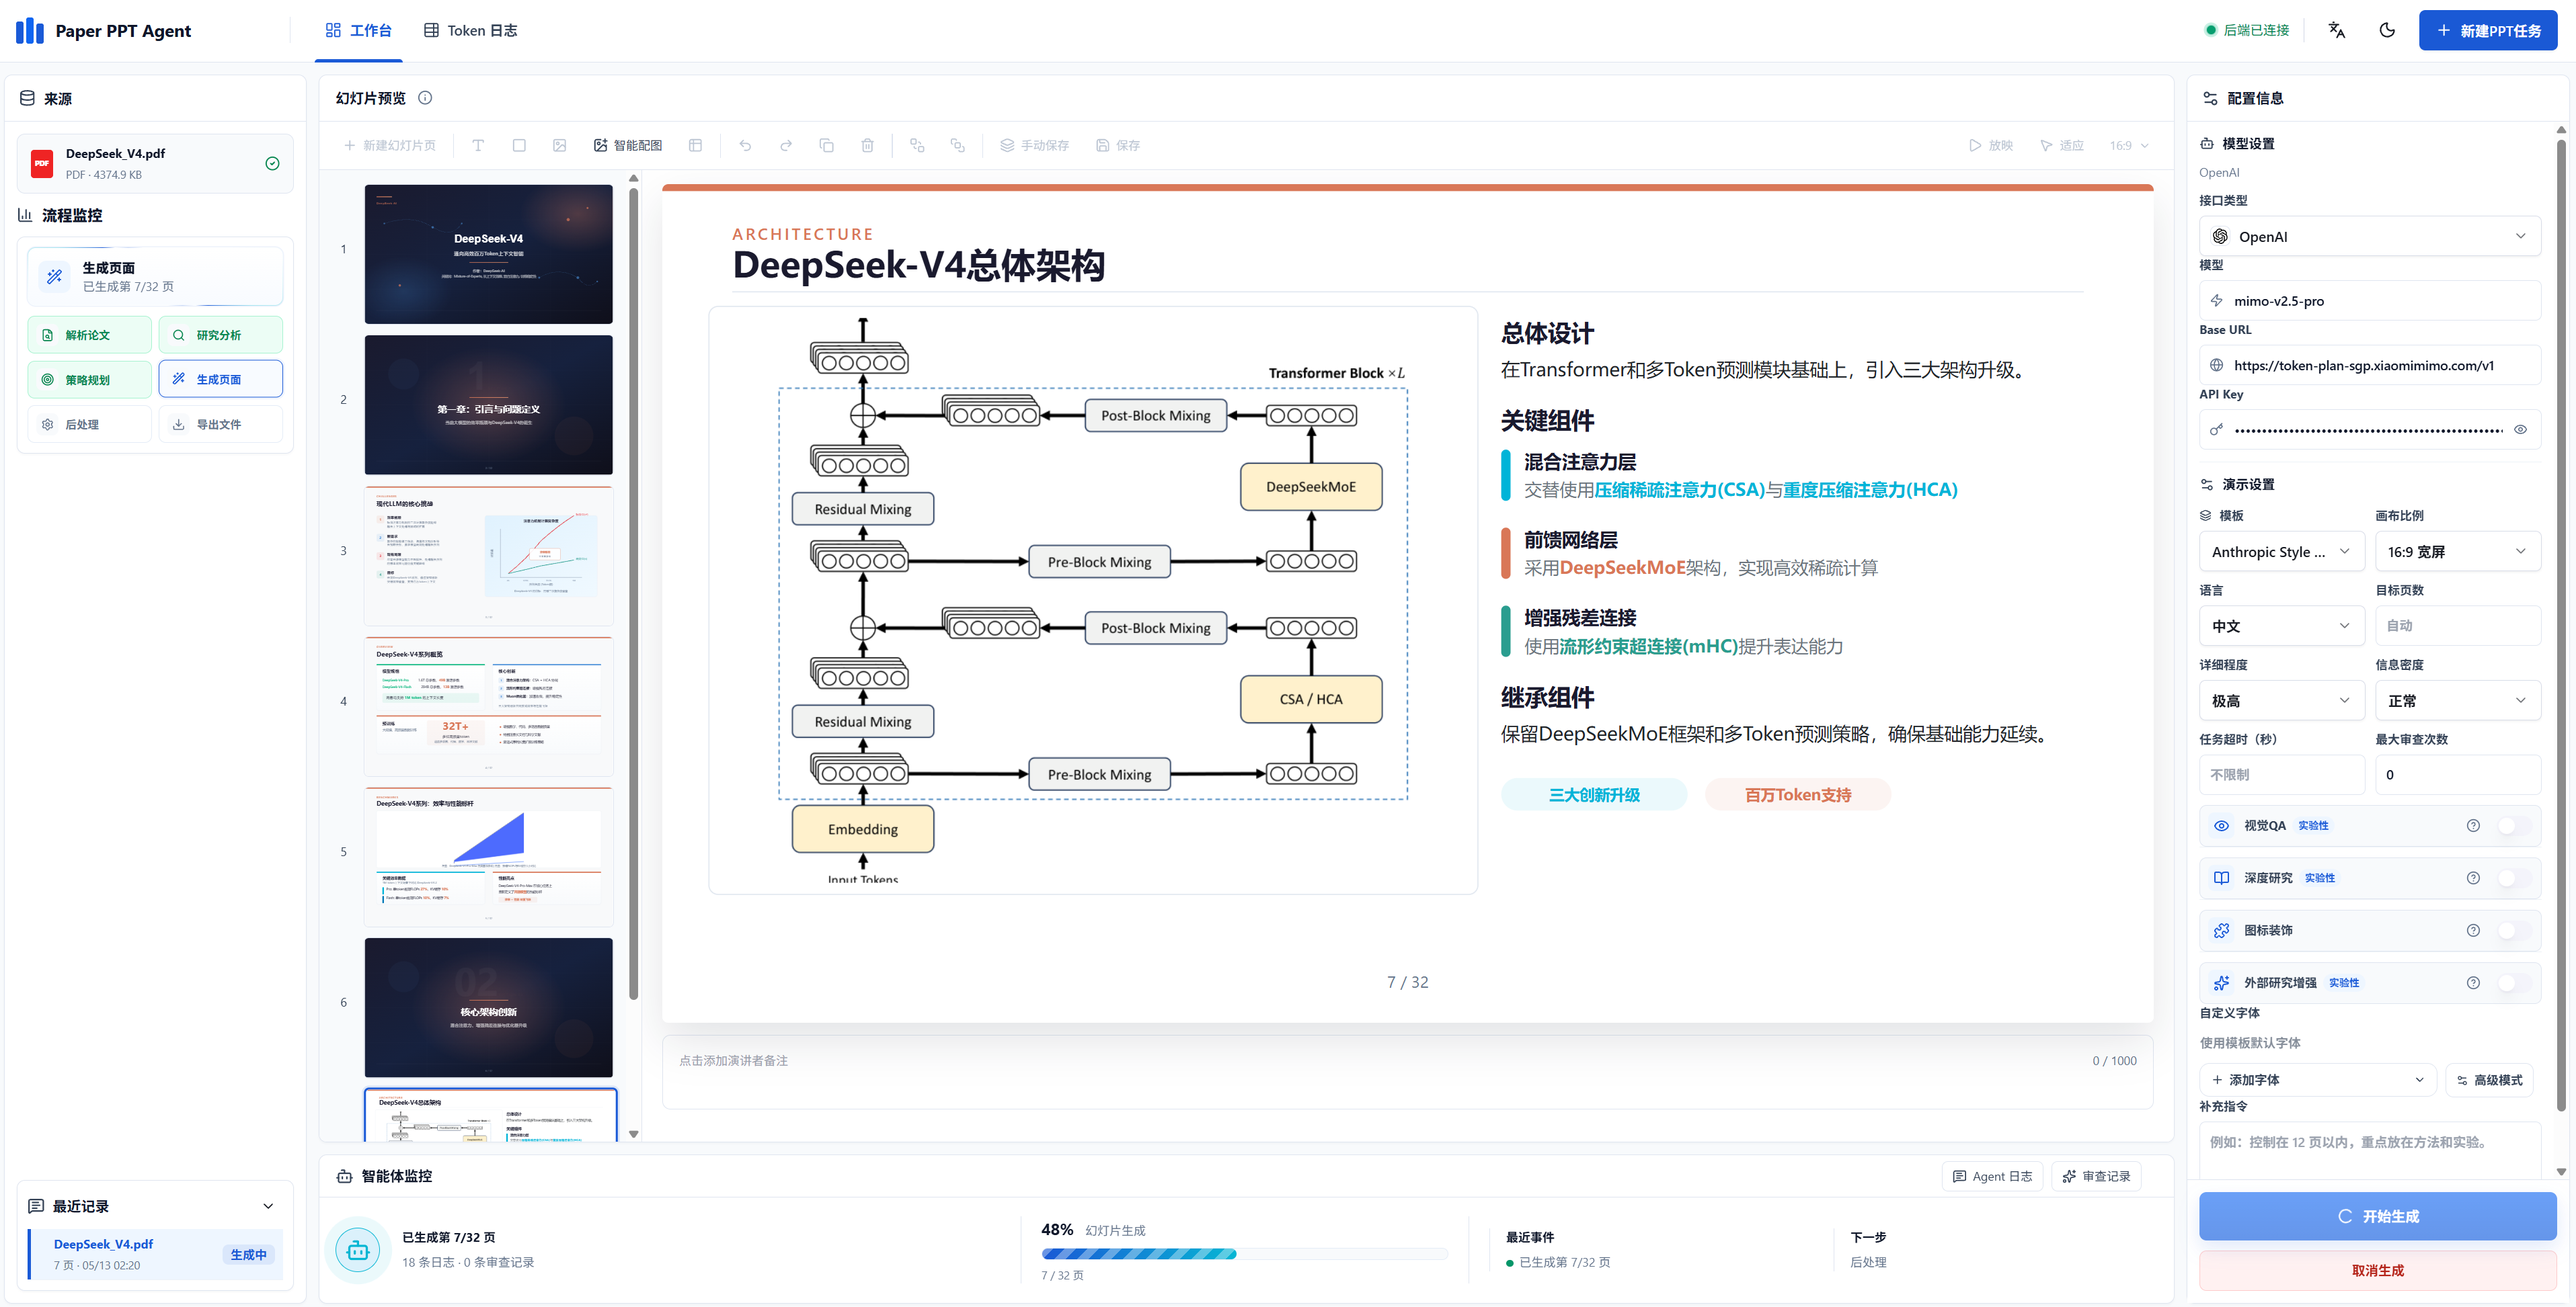
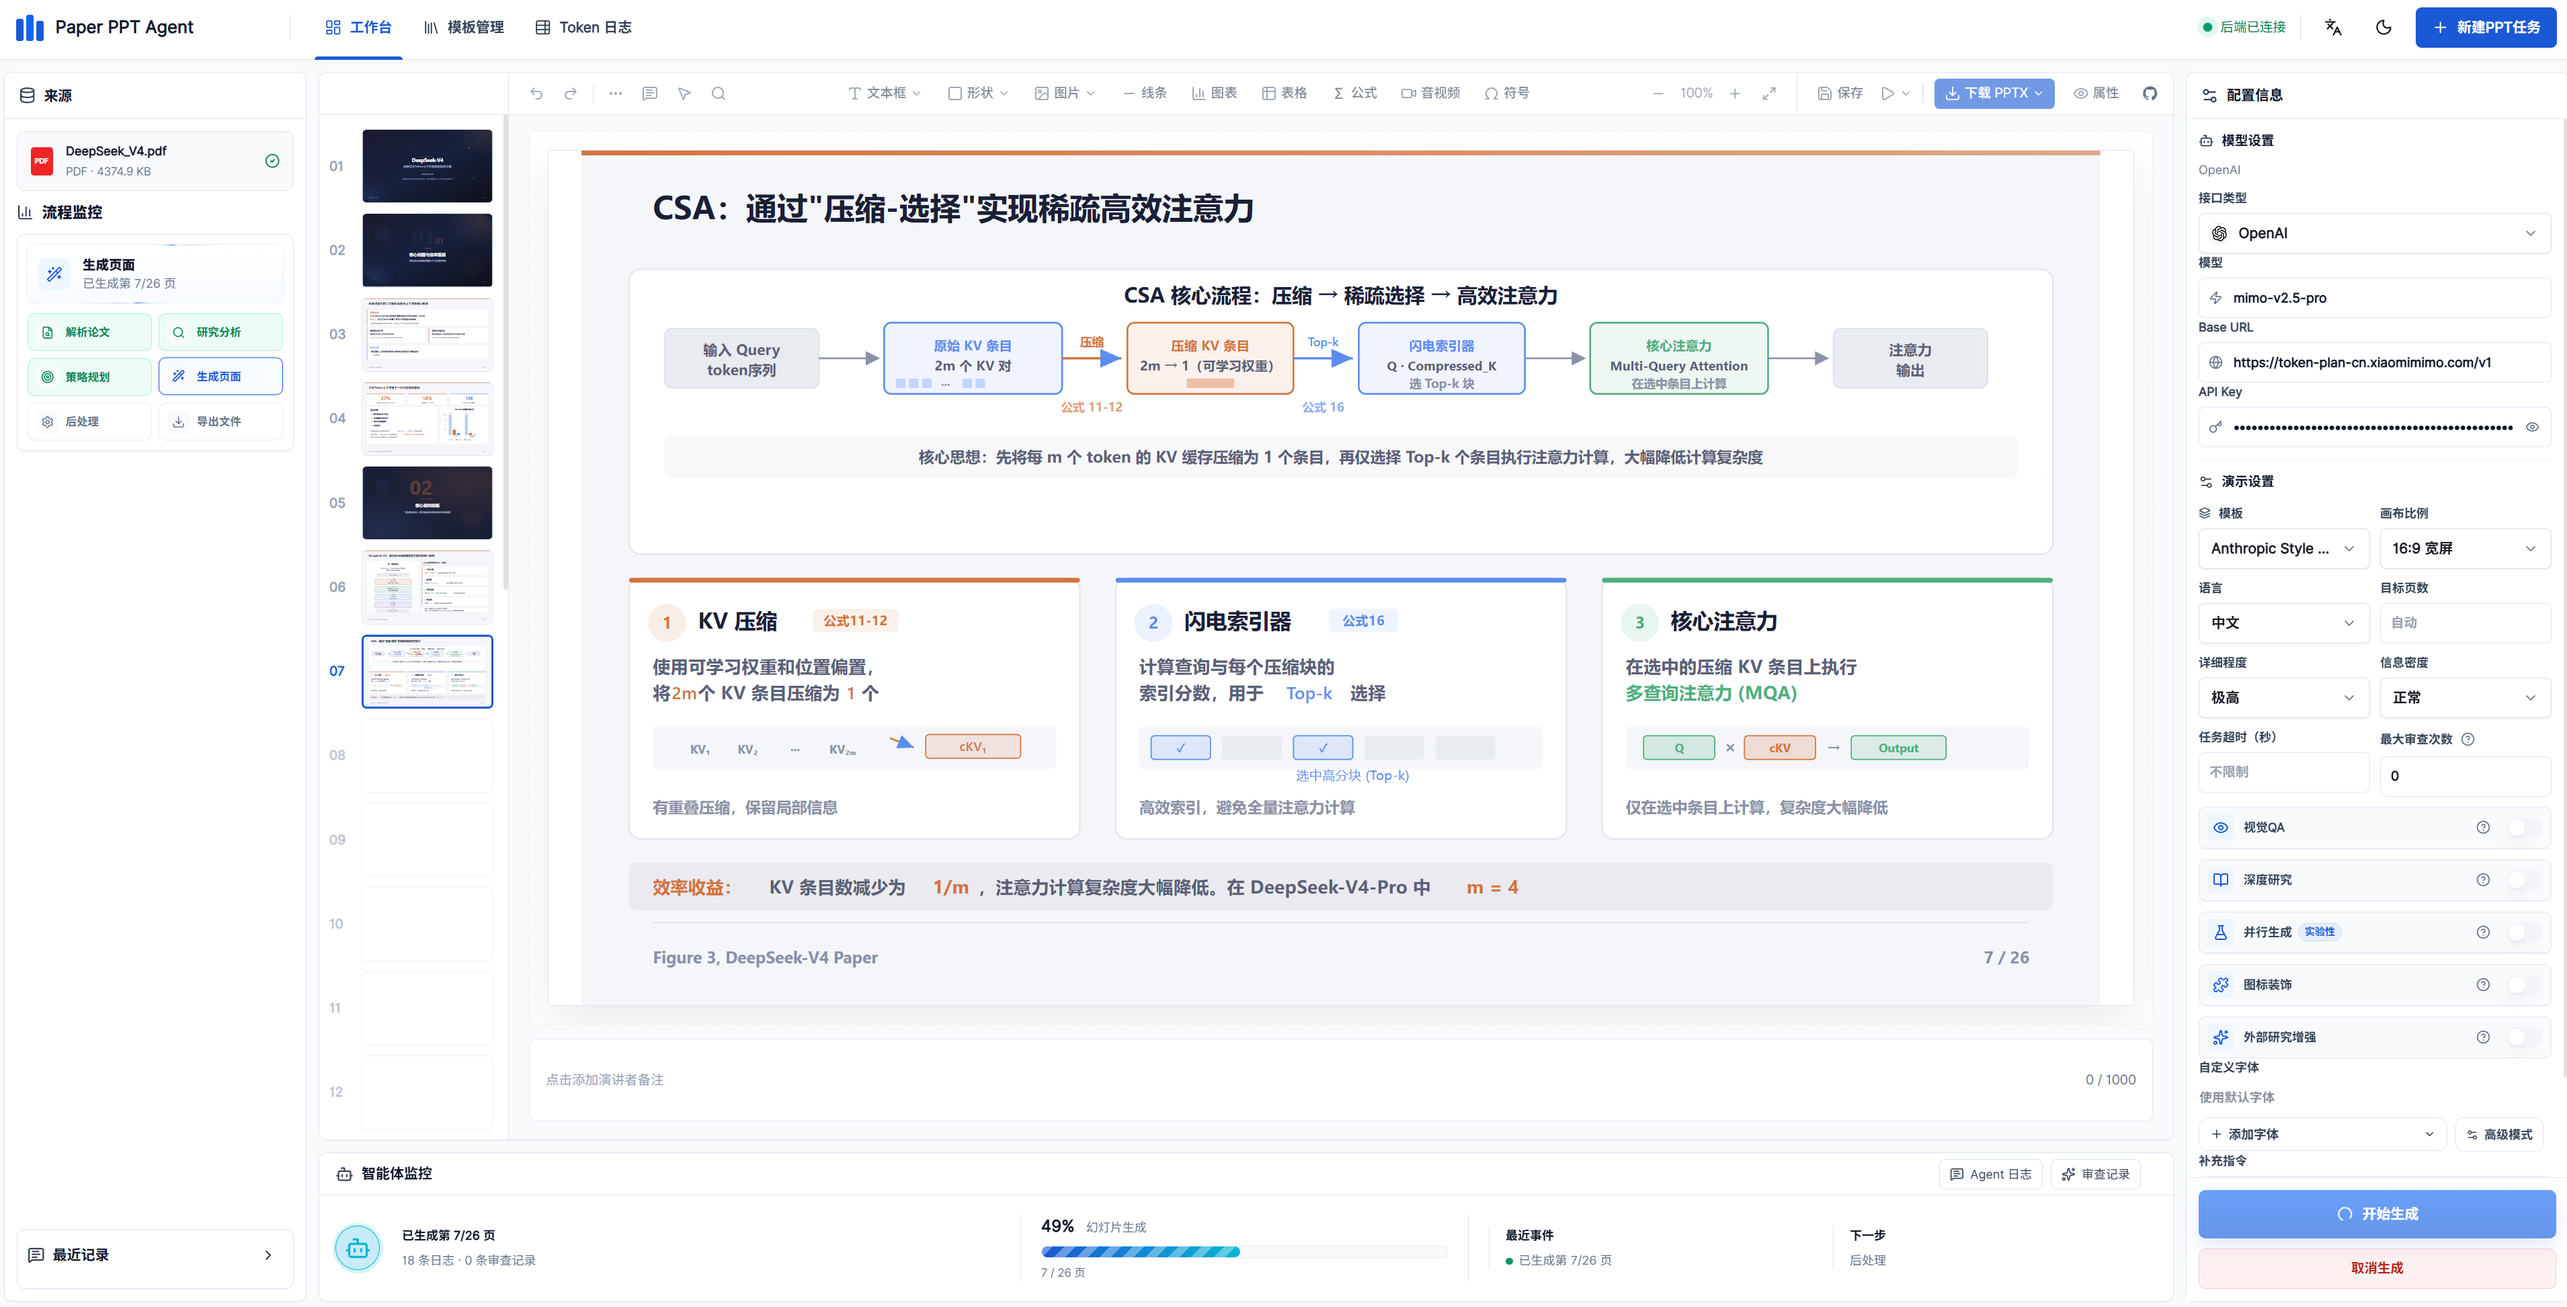
docs update template import and editor features

diff --git a/README.en.md b/README.en.md
@@ -47,7 +47,8 @@ A multi-agent pipeline for automatically generating editable PowerPoint presenta
 | **Real-time Observability** | Agent log stream, Token usage aggregation, per-page Critic detail panel |
 | **Multi-language** | Chinese, English, bilingual, and custom language output |
 | **Multi-model** | OpenAI / Anthropic / Gemini / DeepSeek and custom-compatible APIs |
-| **Template System** | Pre-built industry-style templates with custom font configuration |
+| **Template Import** | Import PPTX files directly as five-page templates, or use the Claude Code Agent mode for automated analysis, templateization, and preview |
+| **PPT Editor** | Built-in PPTist-based visual editor for editing generated decks and imported templates, including slides, notes, fonts, saving, and re-export |
 | **Deep Research** | External research enrichment (arXiv / Semantic Scholar / Web) with relevance filtering |
 
 ## 📸 Demo
@@ -65,6 +66,8 @@ A multi-agent pipeline for automatically generating editable PowerPoint presenta
 | 🟢 Node.js | 18+ |
 
 An API key for at least one model provider: OpenAI / Anthropic / Gemini / DeepSeek or a custom BaseURL-compatible API.
+
+Optional: the template-import Agent mode requires the backend environment to have access to the Claude Code CLI and Agent SDK.
 
 ## 🚀 Quick Start
 
@@ -110,6 +113,8 @@ cd frontend && npm run dev -- --host 127.0.0.1 --port 5173 --strictPort
 - 🖥 **Real-time SVG Preview + Log Panel + Critic Detail View** — Live slide preview, Agent logs, and review details during generation
 - 🎯 **Icon RAG Semantic Search** — Gemini Embedding-based semantic search for icon candidates, independently toggleable
 - 🎨 **Template System & Custom Fonts** — Pre-built industry-style templates with custom heading/body font configuration
+- 🧩 **Template Import** — PPTX direct import, five-page template mapping, and Claude Code Agent mode for automated template analysis and templateization
+- 📝 **PPT Editor** — Visual PPT editor integrated into generated results and template-import workflows, with slide editing, notes, saving, and re-export
 - 🔬 **Deep Research Workflow** — External research enrichment (arXiv / Semantic Scholar / Web) with relevance filtering
 - 🖼 **Online Image Search** — Search for images online using Tavily / SerpAPI, with AI layout analysis, one-click undo, and download
 - 🎨 **UI Refactor** — Rewrote UI with Konva canvas editor and upgraded SVG-to-PPTX converter
@@ -126,7 +131,8 @@ cd frontend && npm run dev -- --host 127.0.0.1 --port 5173 --strictPort
 
 ## 🗺 Roadmap
 
-- [ ] 📐 Template management further implementation and optimization
+- [ ] 🤖 Claude Code-powered PPT generation integration
+- [ ] 🧭 Codex-powered PPT generation integration
 - [ ] 🧠 Local model support
 
 ---
@@ -135,6 +141,7 @@ cd frontend && npm run dev -- --host 127.0.0.1 --port 5173 --strictPort
 
 - [PPTAgent](https://github.com/icip-cas/PPTAgent) — Pipeline design and Agent architecture reference
 - [ppt-master](https://github.com/hugohe3/ppt-master) — Parts of the engineering approach reference
+- [PPTist](https://github.com/pipipi-pikachu/PPTist) — PPT editor reference and integration foundation. Thanks to the pipipi-pikachu/PPTist project.
 
 ## ⭐ Star History
 

diff --git a/README.md b/README.md
@@ -47,7 +47,8 @@
 | **实时可观测** | Agent 日志流、Token 用量聚合、Critic 逐页详情面板 |
 | **多语言** | 支持中英双语及自定义语言输出 |
 | **多模型** | OpenAI / Anthropic / Gemini / DeepSeek 及自定义兼容接口 |
-| **模板系统** | 预设多种行业风格模板，支持自定义模板导入与字体配置 |
+| **模板导入** | 支持 PPTX 直接导入为五页模板，也支持基于 Claude Code 的 Agent 模式自动分析、模板化与预览 |
+| **PPT 编辑器** | 内置基于 PPTist 的可视化编辑器，支持结果页和模板导入页中直接调整页面、备注、字体与导出 |
 | **Deep Research** | 外部研究增强（arXiv / Semantic Scholar / Web），相关性自动过滤 |
 
 ## 📸 效果展示
@@ -65,6 +66,8 @@
 | 🟢 Node.js | 18+ |
 
 至少一种模型提供商的 API Key：OpenAI / Anthropic / Gemini / DeepSeek 或自定义 BaseURL 兼容接口。
+
+可选：使用模板导入的 Agent 模式时，需要后端环境可访问 Claude Code CLI 与 Agent SDK。
 
 ## 🚀 快速开始
 
@@ -110,6 +113,8 @@ cd frontend && npm run dev -- --host 127.0.0.1 --port 5173 --strictPort
 - 🖥 **实时 SVG 预览 + 日志面板 + Critic 详情视图** — 生成过程中实时查看幻灯片、Agent 日志与审查详情
 - 🎯 **图标 RAG 语义搜索** — 基于 Gemini Embedding 从图标库中语义检索匹配候选，可独立开关
 - 🎨 **模板系统与自定义字体** — 预设行业风格模板，支持自定义标题/正文字体配置
+- 🧩 **模板导入** — 支持 PPTX 直接导入、五页模板映射，以及基于 Claude Code 的 Agent 模式自动分析和模板化
+- 📝 **PPT 编辑器** — 在生成结果与模板导入流程中接入可视化 PPT 编辑器，支持页面编辑、备注、保存、重新导出
 - 🔬 **Deep Research 工作流** — 外部研究增强（arXiv / Semantic Scholar / Web）+ 相关性过滤
 - 🖼 **在线搜图** — 利用 Tavily / SerpAPI Key 在线搜索配图，支持 AI 智能布局分析与插入、一键撤消、图片下载
 - 🎨 **UI 重构** — 基于 Konva 画布编辑器重写 UI，升级 SVG-to-PPTX 转换器
@@ -126,7 +131,8 @@ cd frontend && npm run dev -- --host 127.0.0.1 --port 5173 --strictPort
 
 ## 🗺 开发计划
 
-- [ ] 📐 模板管理进一步实现和优化
+- [ ] 🤖 Claude Code 生成 PPT 接入
+- [ ] 🧭 Codex 生成 PPT 接入
 - [ ] 🧠 本地大模型支持
 
 ---
@@ -135,6 +141,7 @@ cd frontend && npm run dev -- --host 127.0.0.1 --port 5173 --strictPort
 
 - [PPTAgent](https://github.com/icip-cas/PPTAgent) — 流程设计与 Agent 架构参考
 - [ppt-master](https://github.com/hugohe3/ppt-master) — 部分工程实现参考
+- [PPTist](https://github.com/pipipi-pikachu/PPTist) — PPT 编辑器能力参考与集成基础，感谢 pipipi-pikachu/PPTist 项目
 
 ## 📄 许可证
 
